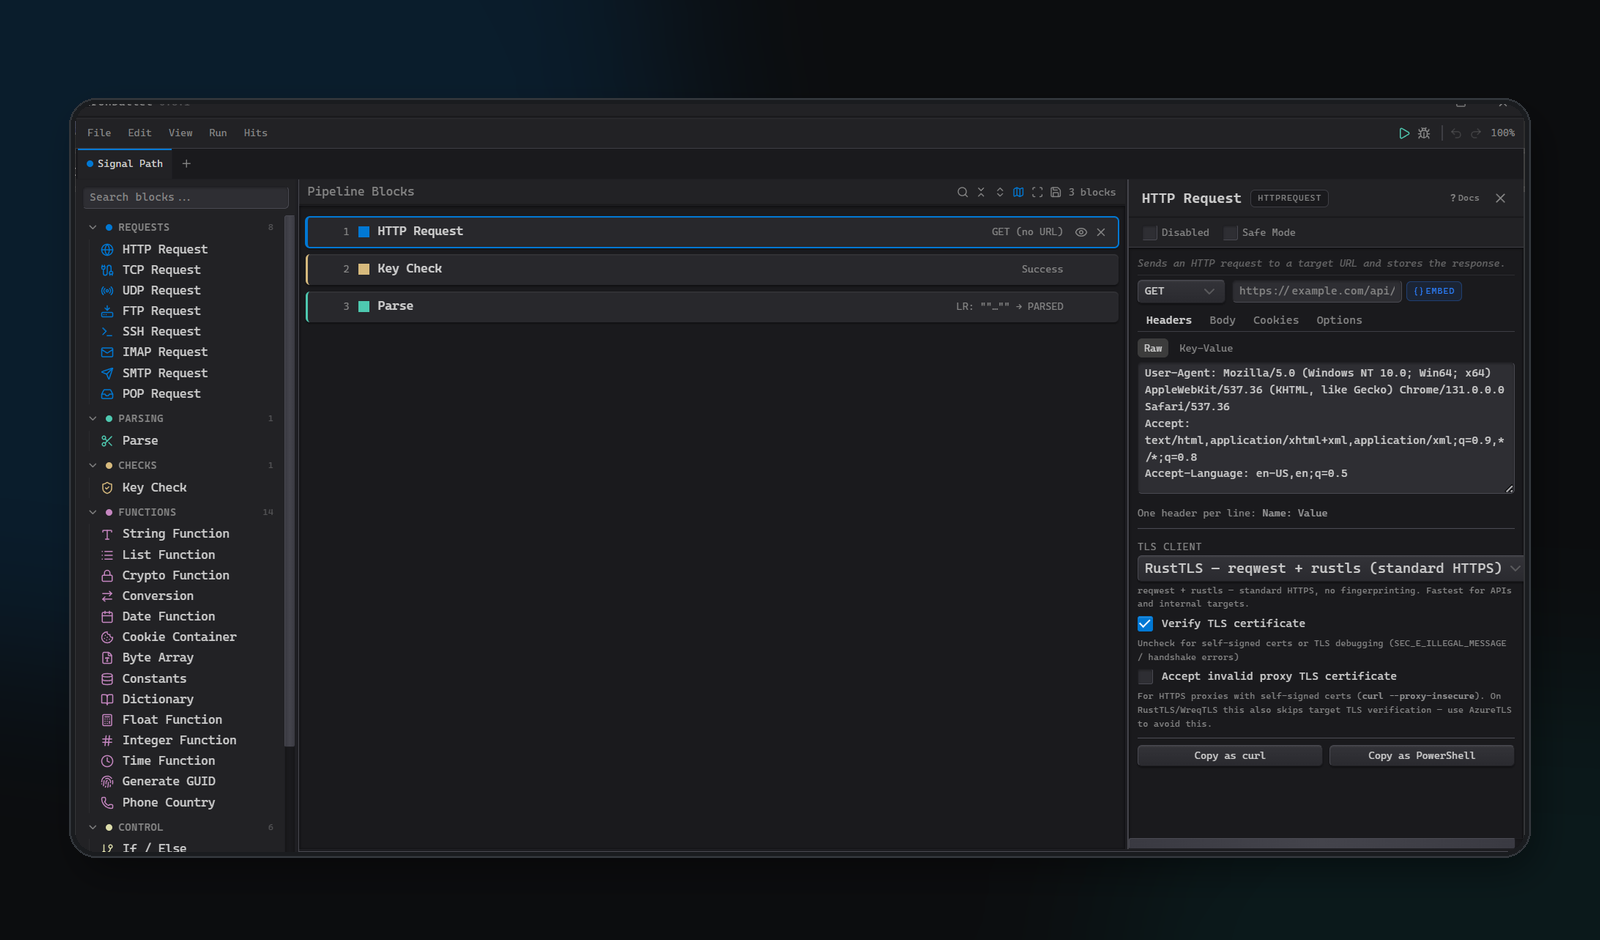
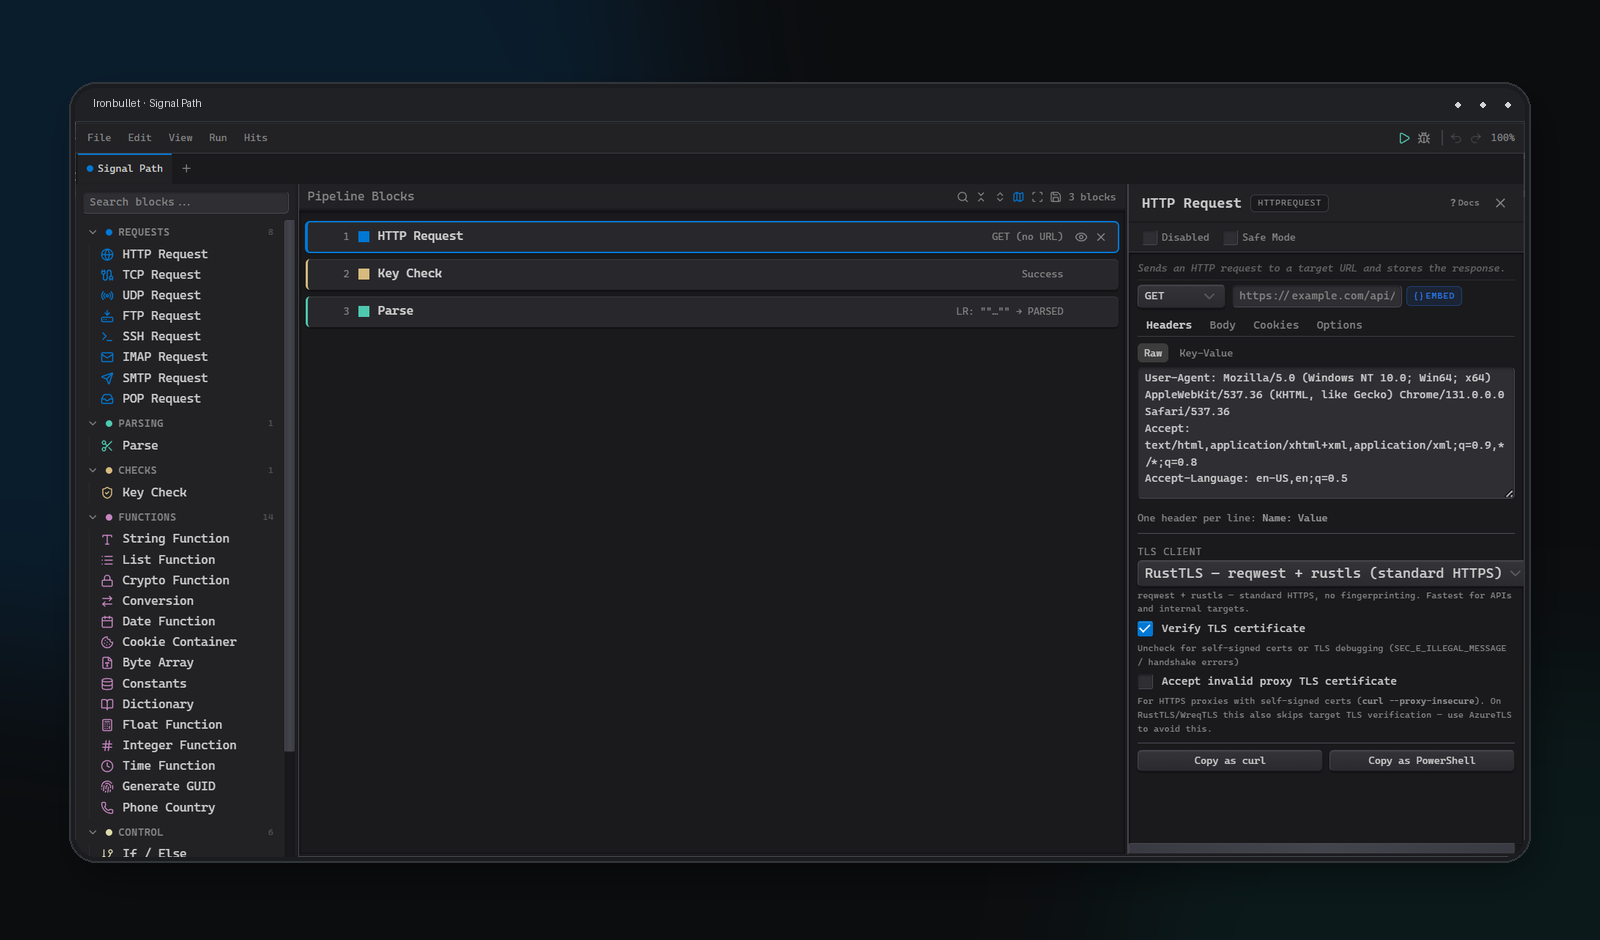
fix(docs): frame README hero title bar

diff --git a/scripts/branding/generate_brand_assets.py b/scripts/branding/generate_brand_assets.py
@@ -66,11 +66,19 @@ def make_hero(interface, dark):
     glow_draw.ellipse((1040, 610, 1850, 1320), fill=(0, 180, 180, glow_alpha // 2))
     canvas.alpha_composite(glow.filter(ImageFilter.GaussianBlur(100)))
 
+    # The committed source capture begins mid-way through its native title bar.
+    # Trim that damaged strip, then present the unmodified real interface beneath
+    # a complete outer application title bar rather than showing a visibly clipped
+    # window at the top of the README hero.
+    source_top_trim = 18
+    titlebar_height = 34
     card_width = 1450
-    card_height = round(interface.height * card_width / interface.width)
-    screenshot = interface.resize((card_width, card_height), Image.Resampling.LANCZOS)
+    content = interface.crop((0, source_top_trim, interface.width, interface.height))
+    content_height = round(content.height * card_width / content.width)
+    screenshot = content.resize((card_width, content_height), Image.Resampling.LANCZOS)
+    card_height = titlebar_height + content_height
     x = (canvas.width - card_width) // 2
-    y = 104
+    y = 88
 
     shadow = Image.new("RGBA", canvas.size, (0, 0, 0, 0))
     ImageDraw.Draw(shadow).rounded_rectangle(
@@ -80,11 +88,22 @@ def make_hero(interface, dark):
     )
     canvas.alpha_composite(shadow.filter(ImageFilter.GaussianBlur(18)))
 
+    titlebar_fill = (31, 33, 36, 255) if dark else (249, 250, 252, 255)
+    titlebar_text = (209, 213, 219, 255) if dark else (48, 52, 57, 255)
+    window = Image.new("RGBA", (card_width, card_height), frame_fill)
+    window_draw = ImageDraw.Draw(window)
+    window_draw.rectangle((0, 0, card_width, titlebar_height), fill=titlebar_fill)
+    window_draw.line((0, titlebar_height - 1, card_width, titlebar_height - 1), fill=border, width=1)
+    window_draw.text((18, 9), "Ironbullet  ·  Signal Path", fill=titlebar_text)
+    for control_x in (card_width - 70, card_width - 45, card_width - 20):
+        window_draw.ellipse((control_x, 14, control_x + 5, 19), fill=titlebar_text)
+    window.alpha_composite(screenshot, (0, titlebar_height))
+    window.putalpha(rounded_mask(window.size, 21))
+
     frame = Image.new("RGBA", (card_width + 12, card_height + 12), frame_fill)
     frame.putalpha(rounded_mask(frame.size, 27))
     canvas.alpha_composite(frame, (x - 6, y - 6))
-    screenshot.putalpha(rounded_mask(screenshot.size, 21))
-    canvas.alpha_composite(screenshot, (x, y))
+    canvas.alpha_composite(window, (x, y))
     ImageDraw.Draw(canvas).rounded_rectangle(
         (x - 6, y - 6, x + card_width + 5, y + card_height + 5),
         radius=27,